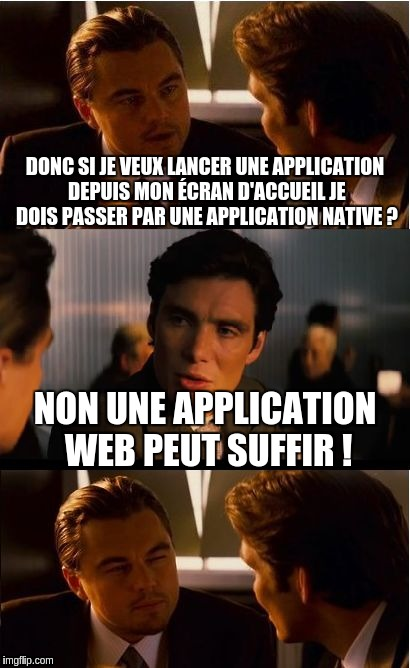
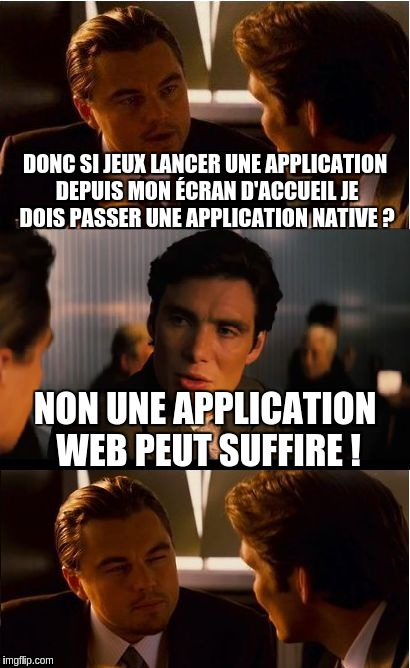
corrections

Changed region(s): [[0.0293, 0.2096, 0.9951, 0.3593], [0.1171, 0.6287, 0.878, 0.7186]]

diff --git a/Prezs/SuperPowerWeb/assets/markdown/prez.md b/Prezs/SuperPowerWeb/assets/markdown/prez.md
@@ -264,7 +264,7 @@ navigator.bluetooth.requestDevice({ filters: [{ name: ['MyDevice'] }] })
 ```javascript
 navigator.bluetooth.requestDevice({ filters: [{ services: ['battery_service'] }] })
 .then(device => {
-  return device.connectGATT();
+  return device.gatt.connect();
 })
 .catch(error => { console.log(error); });
 ```
@@ -277,7 +277,7 @@ navigator.bluetooth.requestDevice({ filters: [{ services: ['battery_service'] }]
 ```javascript
 navigator.bluetooth.requestDevice({ filters: [{ services: ['battery_service'] }] })
 .then(device => {
-  return device.connectGATT();
+  return device.gatt.connect();
 })
 .then(service => {
   // Getting Battery Level Characteristic...
@@ -302,7 +302,7 @@ navigator.bluetooth.requestDevice({ filters: [{ services: ['battery_service'] }]
 
 ```javascript
 navigator.bluetooth.requestDevice({ filters: [{ services: ['heart_rate'] }] })
-.then(device => device.connectGATT())
+.then(device => device.gatt.connect())
 .then(server => server.getPrimaryService('heart_rate'))
 .then(service => service.getCharacteristic('heart_rate_control_point'))
 .then(characteristic => {
@@ -439,7 +439,7 @@ button.addEventListener('click', function() {
 
 * Vibre selon un temps donné ! 
 
-* Peut faire vibrer tout un ensmble de temps
+* Peut faire vibrer tout un ensemble de temps
  * n = temps à vibrer
  * n+1 = temps entre vibration n et n+2
 
